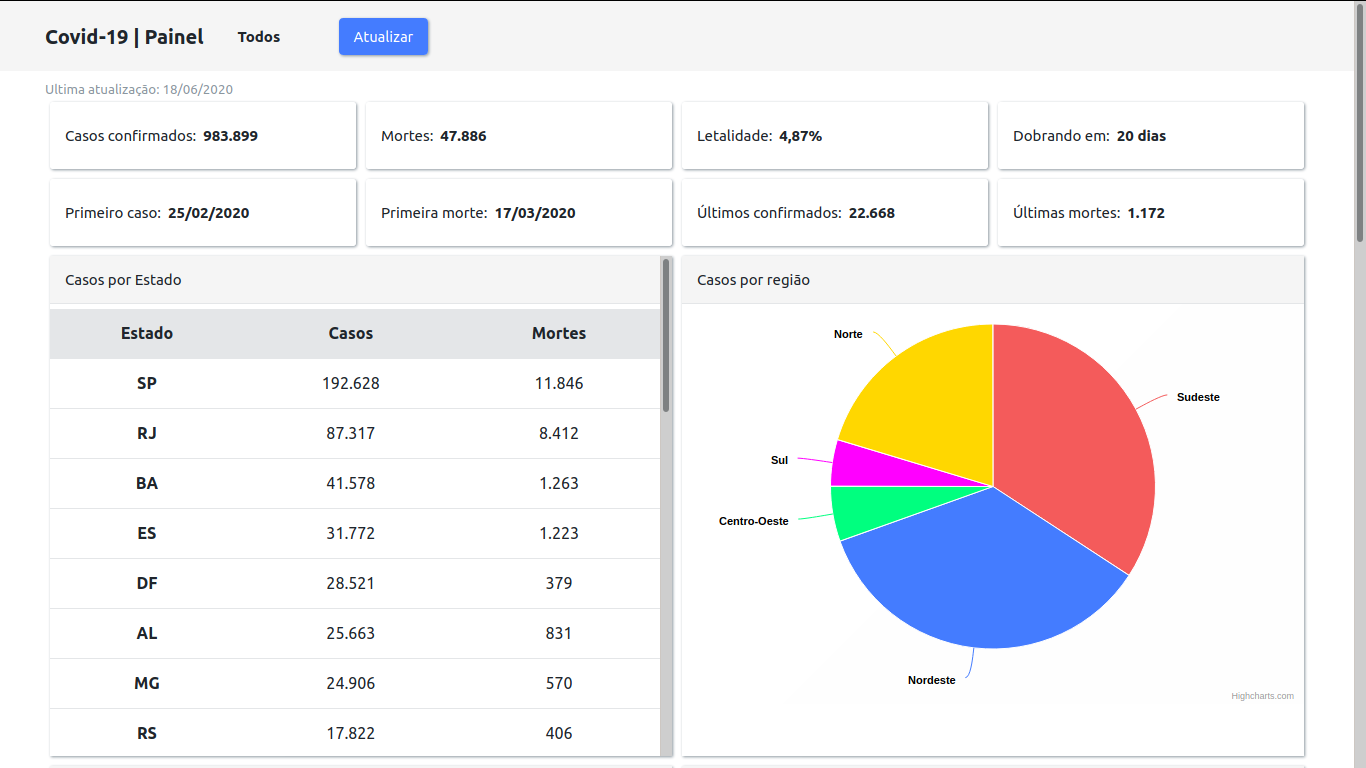
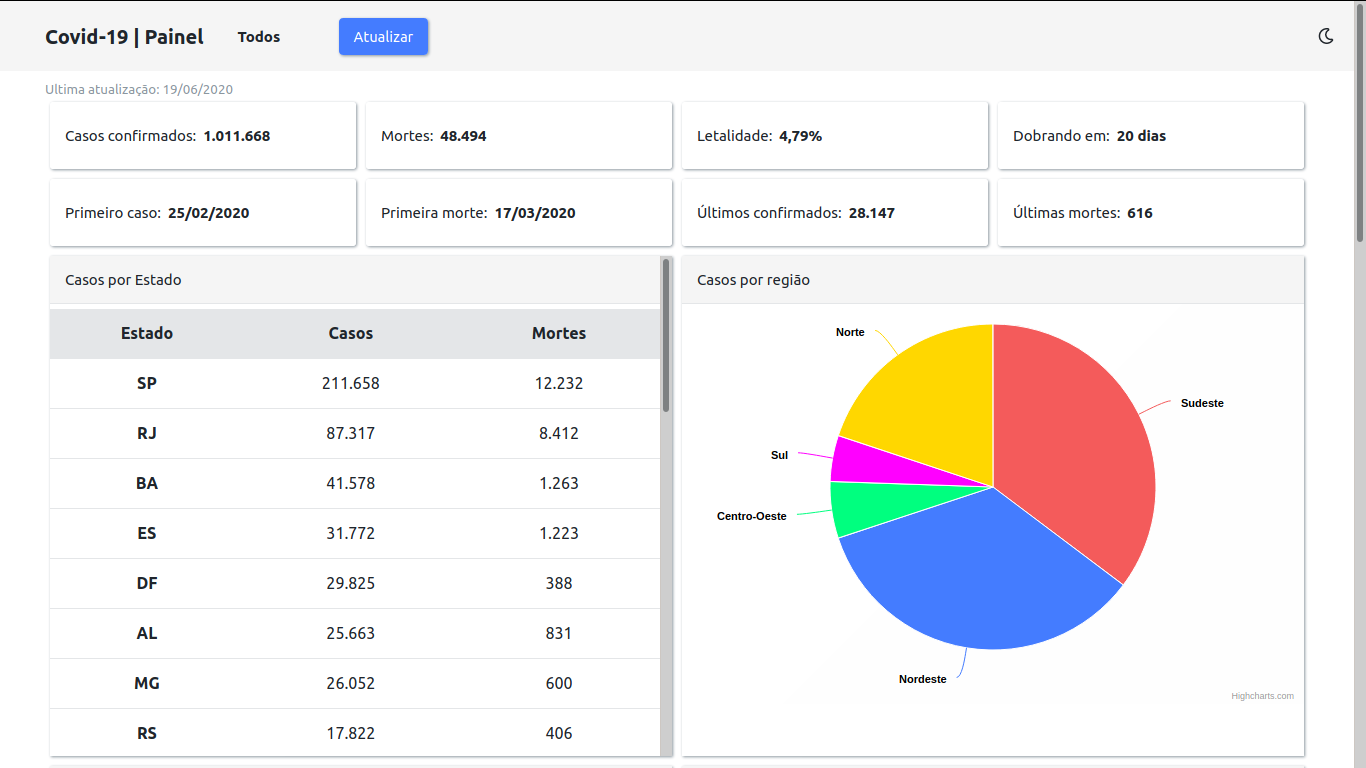
add prints and edit readme

diff --git a/README.md b/README.md
@@ -1,3 +1,7 @@
+# New Features
+
+- Dark Theme
+
 # Dados técnicos
 
 - Usando Graphql no backend e no frontend
@@ -26,6 +30,10 @@ Foi o melhor compilado de dados que encontrei.
 ### Print 4
 
 ![print4](https://github.com/eduardozampiere/covid-graphql/blob/master/prints/home4.png)
+
+### Dark Theme
+
+![print4](https://github.com/eduardozampiere/covid-graphql/blob/master/prints/home1-dark.png)
 
 ### Como o sistema realiza a projeção de casos ?
 
